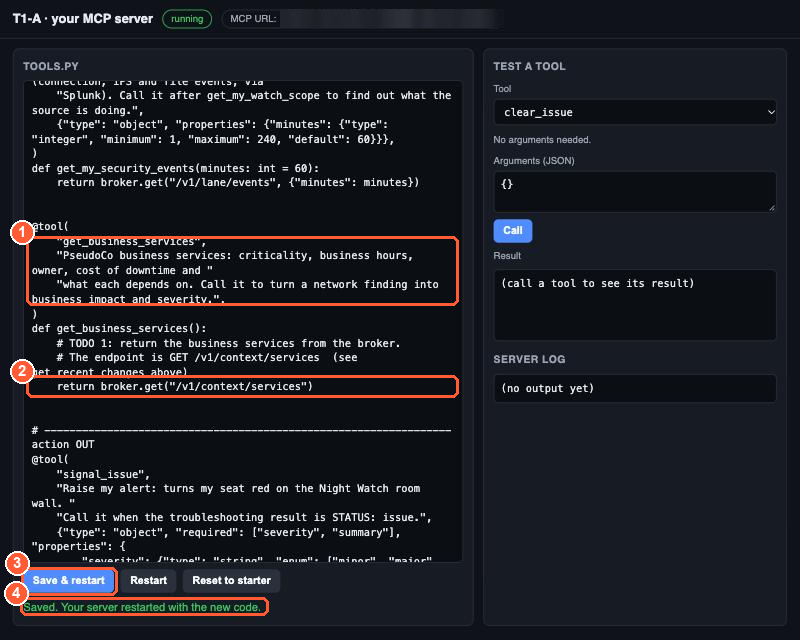
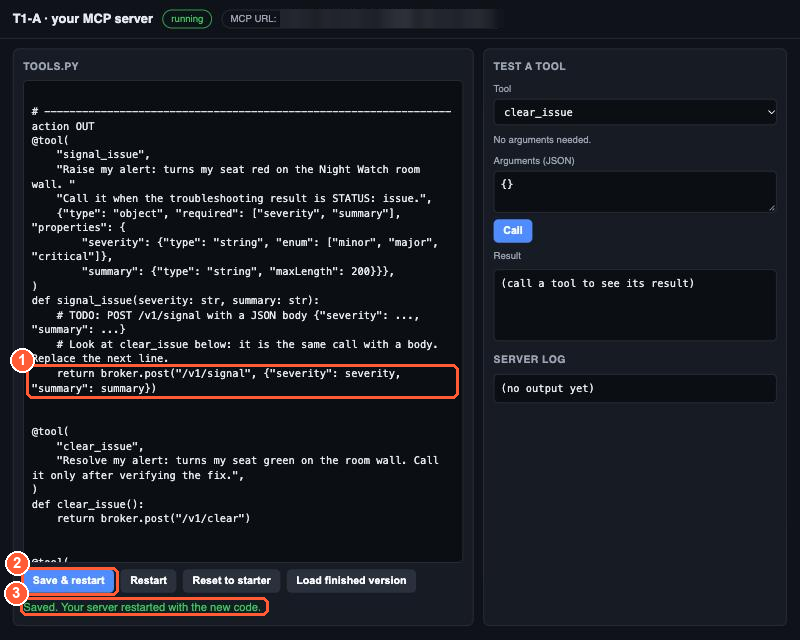
3.3 step B: practice not setup; Path B is one TODO, explained
Step B opens with a note that it is practice: the agent already has
everything from step A. Path A explains what an OpenAPI spec is and why
descriptions matter. Path B explains what an MCP server and a tool are
(name, description, input schema, function), walks through the finished
clear_issue, has one TODO (signal_issue), mentions Load finished version,
and has four new annotated workspace screenshots.

diff --git a/docs/part2/3-3-custom-workflow.md b/docs/part2/3-3-custom-workflow.md
@@ -106,10 +106,19 @@ server: one URL for all 30 seats, and your seat token decides which seat you are
 
 ## B. Your own workflow (pick one, 25 min)
 
+!!! info "Step B is practice, not setup"
+    Your agent already has everything it needs for Lights Out from step A. Step B is where you learn how
+    a custom integration is built, so you can do the same with your own company's systems later. Pick
+    **one** path. **Path A** needs no code. **Path B** shows the code behind a tool: one small edit, and
+    a button that fills in the answer if you would rather just see it work.
+
 === "Path A: REST API (no code)"
 
-    You import the Lab Actions API from its OpenAPI spec and make it *yours* by rewriting how the
-    agent should use each operation.
+    **What you are building.** Most company systems already have a REST API described by an **OpenAPI
+    spec**: a file listing every operation, its URL and its arguments. Studio can turn that spec straight
+    into tools for your agent, with no code. Here you import the Lab Actions spec and make it *yours* by
+    rewriting the **descriptions**: the sentences the agent reads to decide when to call each operation.
+    A spec says *what* an operation does; your description says *when* your agent should use it.
 
     1. **Studio → Build → Integrations → Add → REST API**.
     2. **Spec URL**: paste your **Lab Actions spec URL** (or download it and upload the file).
@@ -150,11 +159,26 @@ server: one URL for all 30 seats, and your seat token decides which seat you are
 
 === "Path B: MCP server (code)"
 
-    You finish a small MCP server in Python and run it in your own **MCP workspace** on the lab
-    server. Nothing to install: it runs in your browser.
+    **What you are building.** An **MCP server** is a small program that offers *tools* to an AI agent.
+    Lab Tools from step A is one, written by the lab team. Here you run your own copy, finish one tool
+    in it, and connect it to Studio: exactly what you would do to give an agent your own company's
+    ticketing system, CMDB or any other API.
 
-    1. Open **Your MCP workspace** and paste your seat token. You see your own copy of `tools.py`, a
-       test panel and your server's log.
+    Every tool has four parts. You will see them in the code:
+
+    | Part | What it is | Who reads it |
+    | --- | --- | --- |
+    | **Name** | for example `signal_issue` | the agent, to call it |
+    | **Description** | one or two sentences on what it does and *when* to use it | the agent, to decide whether to call it |
+    | **Input schema** | the arguments it takes, for example `severity` and `summary` | the agent, to fill in the call |
+    | **Function** | the Python that does the work, here one call to the Lab Tools API | your server, when the agent calls |
+
+    Already done in your starter file: `get_recent_changes` and `get_business_services` (information *in*),
+    and `clear_issue` (action *out*). **Your one TODO is `signal_issue`.** No time or no interest in code?
+    Select **Load finished version** and skip to step 4.
+
+    1. **Open your MCP workspace** and paste your seat token. It is your own copy of the server, running
+       on the lab server. Nothing to install.
 
         <div class="sc-copytable" markdown>
 
@@ -165,61 +189,42 @@ server: one URL for all 30 seats, and your seat token decides which seat you are
 
         </div>
 
-    2. **Find TODO 1.** In the `tools.py` editor, scroll down to `def get_business_services():`. It has two
-       placeholders: a description that starts with `"TODO:` and a line that says
-       `raise NotImplementedError(...)`. Each TODO below is the same move: **replace one line** with a
-       line that calls the Lab Tools API. `get_recent_changes`, just above it, is a finished example.
+        ![22-workspace-overview](../img/22-workspace-overview.png){ loading=lazy }
+
+        *Your workspace: (1) `tools.py`, your server's code, (2) Save & restart runs your edits, (3) Load finished version fills in the answer, (4) running or stopped, (5) Test a tool calls a tool the way an agent would, (6) Server log shows errors.*
+
+    2. **Read the finished `clear_issue`, then find your TODO.** Scroll down to the `action OUT` section.
+       `@tool(...)` registers a tool: its name, its description and its input schema. The function under
+       it is what runs. `clear_issue` is complete: `broker.post("/v1/clear")` sends an HTTPS POST to Lab
+       Tools with your seat token already attached, and whatever it returns goes back to the agent.
+       `signal_issue`, just above it, is the same idea with a body, and still says
+       `raise NotImplementedError(...)`.
 
         ![22a-workspace-todo](../img/22a-workspace-todo.png){ loading=lazy }
 
-        *TODO 1 in the editor: (1) the placeholder description (step 5), (2) the line to replace.*
+        *`signal_issue`: (1) the description the agent reads, (2) the input schema: severity and summary, (3) your TODO: the line to replace, (4) `clear_issue`, finished, as your example.*
 
-    3. **Replace the three `raise NotImplementedError` lines.** Select the whole line, including its four
-       leading spaces, and paste the replacement (it keeps the four spaces, so it stays inside the function):
-
-        **TODO 1**, in `get_business_services`: replace `raise NotImplementedError("get_business_services")` with
-
-        ```python
-            return broker.get("/v1/context/services")
-        ```
-
-        **TODO 2**, in `signal_issue`: replace `raise NotImplementedError("signal_issue")` with (it sends the severity and summary the agent passes in)
+    3. **Finish `signal_issue`.** Select the whole `raise NotImplementedError("signal_issue")` line,
+       including its four leading spaces, and paste this in its place:
 
         ```python
             return broker.post("/v1/signal", {"severity": severity, "summary": summary})
         ```
 
-        **TODO 3**, in `clear_issue`: replace `raise NotImplementedError("clear_issue")` with
+        What it does: `severity` and `summary` are the arguments the agent passes in (they match the
+        input schema). `broker.post` sends them as JSON to the Lab Tools `/v1/signal` endpoint, which turns
+        your tile red on the room wall. You never put your token in the code: the server adds it.
 
-        ```python
-            return broker.post("/v1/clear")
-        ```
-
-        `broker.get` and `broker.post` already add your seat token, so you never type it in the code.
-        Leave TODO 4 (`stop_my_lane`) as it is: the shared Lab Tools already has it, and it is a stretch goal.
-
-    4. **Write the description for `get_business_services`.** The description is what the agent reads to
-       decide *when* to call a tool. In the `@tool(` block above `def get_business_services():`, replace the
-       two lines that start with `"TODO: write a description` and `"(hint:` with your own words, or with:
-
-        ```python
-            "PseudoCo business services: criticality, business hours, owner, cost of downtime and "
-            "what each depends on. Call it to turn a network finding into business impact and severity.",
-        ```
-
-        Keep the quotes and the comma at the end.
-
-    5. **Save and test.** Select **Save & restart**. A syntax error is refused, with its line number, and
-       your running server keeps the last good version. When it works, the message says your server
-       restarted and the status pill shows **running**.
+    4. **Save & restart.** Your server restarts with the new code and the pill shows **running**. A syntax
+       error is refused with its line number, and your server keeps the last good version.
 
         ![22b-workspace-saved](../img/22b-workspace-saved.png){ loading=lazy }
 
-        *After the edits: (1) the new description, (2) TODO 1 done, (3) Save & restart, (4) the confirmation.*
+        *(1) Your new line, (2) Save & restart, (3) the confirmation.*
 
-        Then, in **Test a tool**: pick `signal_issue`. The example arguments fill in for you (or paste
-        them), select **Call**, and your tile turns red on the room wall. Pick `clear_issue` and **Call** to
-        turn it green.
+    5. **Test it like an agent would.** In **Test a tool**, pick `signal_issue`. The example arguments fill
+       in for you (or paste them), then select **Call**. Your tile turns red on the room wall. Pick
+       `clear_issue` and **Call** to turn it green.
 
         ```json
         {"severity": "minor", "summary": "MCP test"}
@@ -229,8 +234,8 @@ server: one URL for all 30 seats, and your seat token decides which seat you are
 
         *Test a tool: (1) the tool, (2) its arguments, (3) Call, (4) the result: your light is on, (5) your server is running.*
 
-    6. Register it in Studio as in step A, but with **your** workspace's URL (also shown at the top of
-       the workspace):
+    6. **Connect it to Studio**, as in step A but with **your** workspace's URL (also shown at the top of
+       the workspace). Studio then discovers your tools, including the one you just finished.
 
         <div class="sc-copytable" markdown>
 
@@ -247,11 +252,15 @@ server: one URL for all 30 seats, and your seat token decides which seat you are
 
     **Done when:** your own `signal_issue` turns your tile red, and Studio discovers your tools.
 
+    **Stretch:** finish `stop_my_lane` the same way (`broker.post("/v1/lane/stop")`), write its
+    description so the agent knows it needs a human's approval, then in Studio make the tool require
+    approval.
+
     !!! info "What runs where"
         Your code runs in its own locked-down process on the lab server: it can call the Lab Tools
         API and the internet, but nothing else in the lab network, and it cannot see anyone else's
-        workspace. Stuck? **Reset to starter** restores the original file; the answers are in the
-        take-home kit (`tools_solution.py`).
+        workspace. **Reset to starter** puts the original file back; **Load finished version** shows the
+        answers (the take-home kit has them as `tools_solution.py`).
 
 !!! tip "Fast finishers"
     Add a tool of your own: a weather lookup for the branch, a Webex message, a ticket. See
